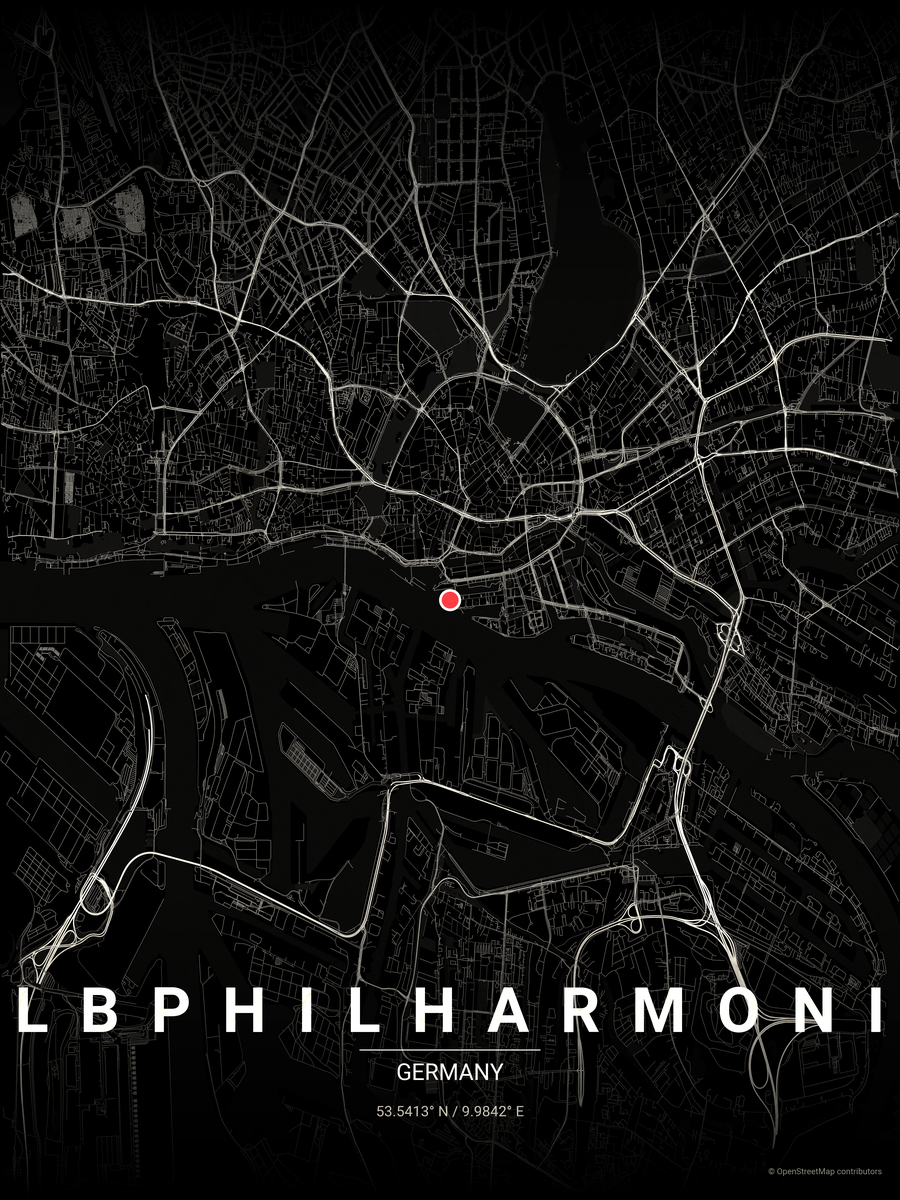
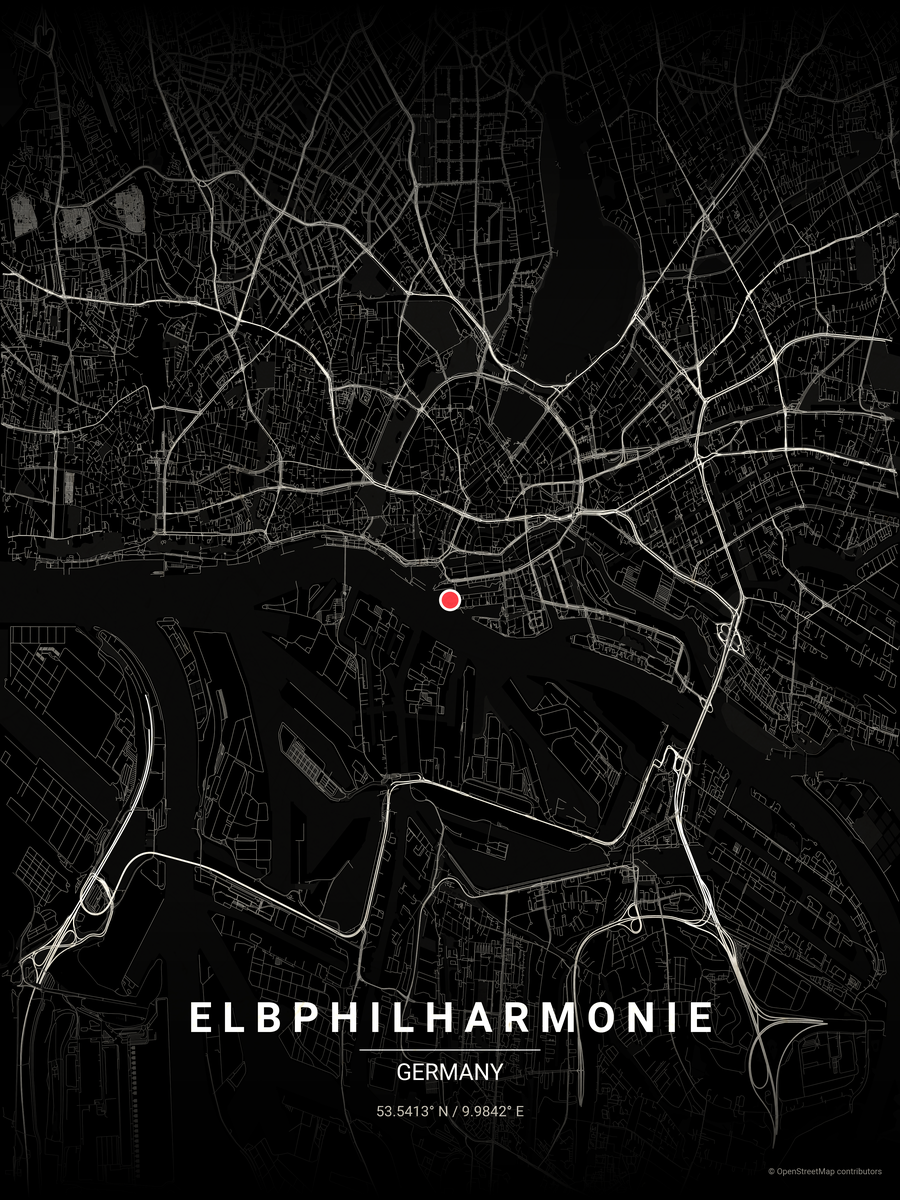
fix(generator): implement dynamic font sizing and spacing for long city names & regenerate Elbphilharmonie poster

diff --git a/maptoposter/generator.py b/maptoposter/generator.py
@@ -290,7 +290,20 @@ def create_poster(city, country, point, dist, output_file, theme, focus_point=No
     font_body_val = theme.get('font_body')
     font_mono_val = theme.get('font_mono')
     
-    font_main = get_font_prop(font_title_val, 'sans-serif', weight='bold', size=int(60 * scale))
+    # Calculate dynamic font size and letter spacing for bottom title to avoid truncation
+    city_upper = city.upper()
+    city_len = len(city_upper)
+    if city_len <= 8:
+        spaced_city = "  ".join(list(city_upper))
+        title_size = int(60 * scale)
+    elif 8 < city_len <= 12:
+        spaced_city = " ".join(list(city_upper))
+        title_size = int(60 * (9.0 / city_len) * scale)
+    else:
+        spaced_city = " ".join(list(city_upper))
+        title_size = int(max(30, 60 * (10.0 / city_len)) * scale)
+
+    font_main = get_font_prop(font_title_val, 'sans-serif', weight='bold', size=title_size)
     font_top = get_font_prop(font_title_val, 'sans-serif', weight='bold', size=int(40 * scale))
     font_sub = get_font_prop(font_body_val, 'sans-serif', 
                             weight='light' if font_body_val in ['Futura', 'Avenir', 'Helvetica Neue'] else 'normal', 
@@ -308,8 +321,6 @@ def create_poster(city, country, point, dist, output_file, theme, focus_point=No
     
     # Render Bottom text on Map only if not hidden
     if not should_hide_card_title:
-        spaced_city = "  ".join(list(city.upper()))
-
         # --- BOTTOM TEXT ---
         ax.text(0.5, 0.14, spaced_city, transform=ax.transAxes,
                 color=theme['text'], ha='center', fontproperties=font_main, zorder=11)